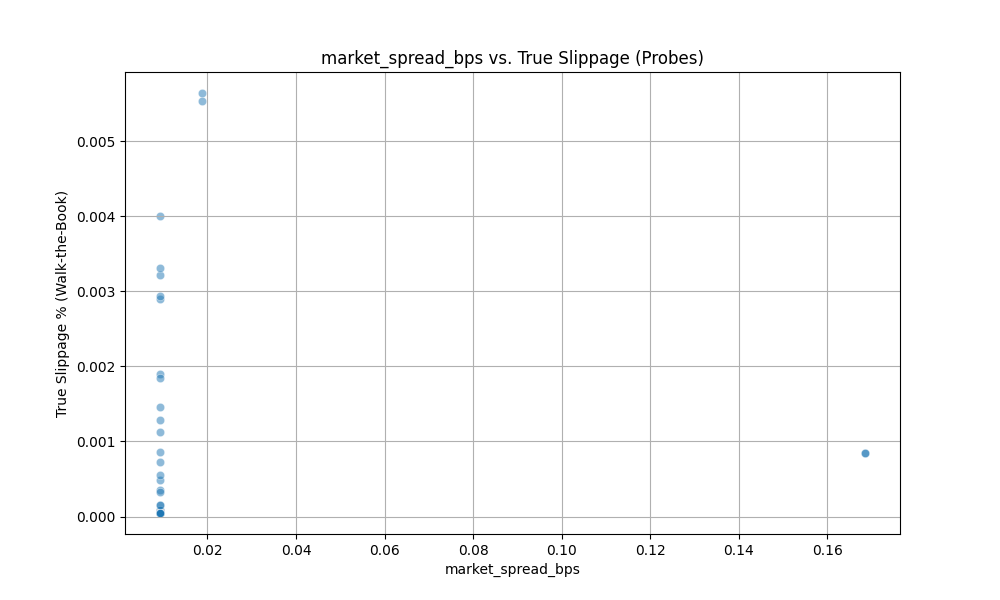
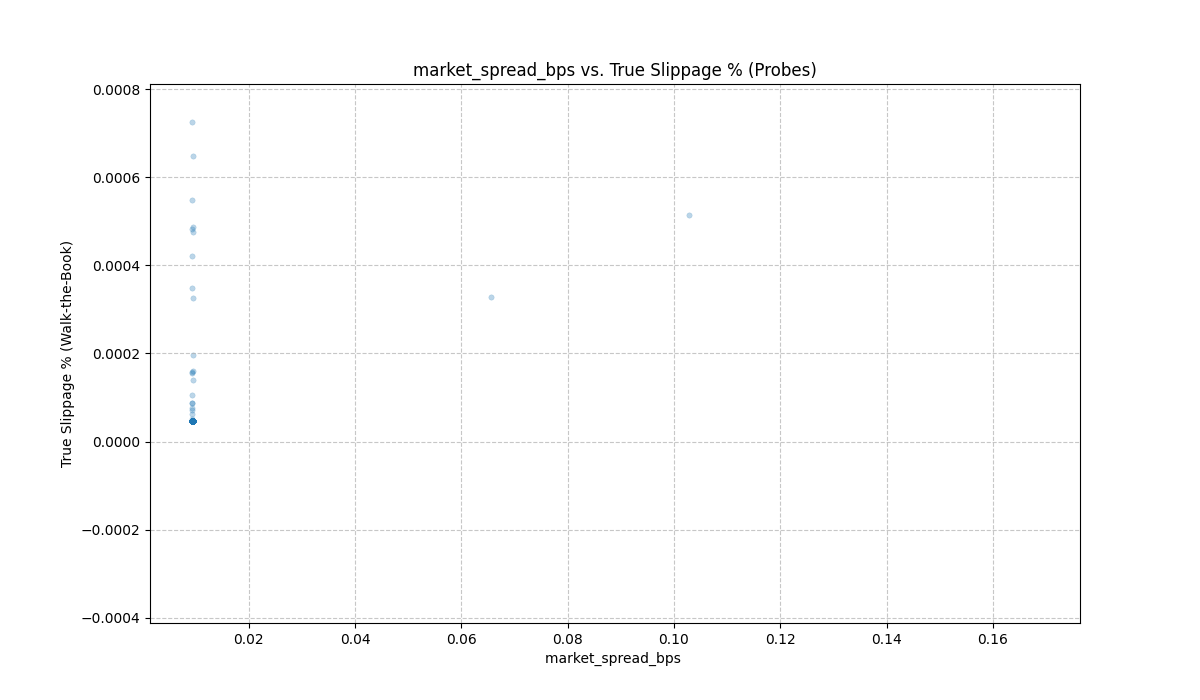
Update Stage 13: Introduced log scale in the plots, as the plots were not in the best form due to outliers and heavy concentrations at zero.

diff --git a/analyze_slippage_data.py b/analyze_slippage_data.py
@@ -2,6 +2,7 @@
 import pandas as pd
 import matplotlib.pyplot as plt
 import seaborn as sns
+import numpy as np # For log scale and handling potential inf/-inf
 import os
 
 # --- Configuration ---
@@ -14,9 +15,8 @@ if not os.path.exists(PLOT_OUTPUT_DIR):
     os.makedirs(PLOT_OUTPUT_DIR)
 
 def plot_model_performance_evolution(df_perf):
-    """Plots MSE and R2 score over training iterations."""
     if df_perf.empty or 'num_training_samples' not in df_perf.columns:
-        print("Performance log is empty or missing required columns.")
+        print("Performance log is empty or missing required columns for evolution plot.")
         return
 
     df_perf = df_perf.sort_values(by='num_training_samples').dropna(subset=['test_mse', 'test_r2_score'])
@@ -24,175 +24,240 @@ def plot_model_performance_evolution(df_perf):
         print("No valid performance data to plot after sorting/dropping NaNs.")
         return
 
-    fig, ax1 = plt.subplots(figsize=(12, 6))
+    fig, ax1 = plt.subplots(figsize=(14, 7)) # Slightly wider
 
     color = 'tab:red'
-    ax1.set_xlabel('Number of Training Samples')
-    ax1.set_ylabel('Test MSE', color=color)
-    ax1.plot(df_perf['num_training_samples'], df_perf['test_mse'], color=color, marker='o', linestyle='-')
+    ax1.set_xlabel('Number of Training Samples (Log Scale)')
+    ax1.set_ylabel('Test MSE (Log Scale)', color=color)
+    # Filter out non-positive MSE values for log scale if any, though MSE should be >= 0
+    valid_mse = df_perf[df_perf['test_mse'] > 0]
+    if not valid_mse.empty:
+        ax1.plot(valid_mse['num_training_samples'], valid_mse['test_mse'], color=color, marker='.', linestyle='-', linewidth=1, markersize=4)
     ax1.tick_params(axis='y', labelcolor=color)
-    ax1.set_yscale('log') # MSE can vary a lot, log scale might be better
+    ax1.set_xscale('log') # Log scale for training samples if it spans orders of magnitude
+    ax1.set_yscale('log') 
+    ax1.grid(True, which="both", ls="-", alpha=0.5) # Grid for log scale
 
-    ax2 = ax1.twinx()  # instantiate a second axes that shares the same x-axis
+    ax2 = ax1.twinx()  
     color = 'tab:blue'
-    ax2.set_ylabel('Test R2 Score', color=color)  # we already handled the x-label with ax1
-    ax2.plot(df_perf['num_training_samples'], df_perf['test_r2_score'], color=color, marker='x', linestyle='--')
+    ax2.set_ylabel('Test R2 Score', color=color)  
+    ax2.plot(df_perf['num_training_samples'], df_perf['test_r2_score'], color=color, marker='x', linestyle='--', linewidth=1, markersize=4)
     ax2.tick_params(axis='y', labelcolor=color)
-    ax2.set_ylim([-0.1, 1.05]) # R2 typically between 0 and 1, allow slightly outside for visibility
+    # R2 can be negative, so a fixed sensible range is good.
+    min_r2 = min(-0.2, df_perf['test_r2_score'].min() - 0.05) if not df_perf.empty else -0.2
+    max_r2 = max(1.0, df_perf['test_r2_score'].max() + 0.05) if not df_perf.empty else 1.0
+    ax2.set_ylim([min_r2, max_r2]) 
+    ax2.axhline(0, color='gray', linestyle=':', linewidth=0.8) # Line at R2=0
 
-    fig.tight_layout()  # otherwise the right y-label is slightly clipped
-    plt.title('Slippage Model Performance Evolution')
+    fig.tight_layout()  
+    plt.title('Slippage Model Performance Evolution (Test Set)')
     plt.savefig(os.path.join(PLOT_OUTPUT_DIR, "model_performance_evolution.png"))
     plt.close(fig)
     print(f"Saved model_performance_evolution.png to {PLOT_OUTPUT_DIR}")
 
 
 def plot_feature_vs_slippage(df_probes):
-    """Plots relationships between features and true slippage for probe data."""
     if df_probes.empty:
         print("Probe data is empty, cannot plot feature relationships.")
         return
 
     features_to_plot = ['probe_order_size_usd', 'market_spread_bps', 'market_depth_best_ask_usd']
     
+    # Filter out extreme true_slippage_pct for better visualization if they exist
+    # For example, if some probes exhausted the book leading to huge slippage values
+    # This depends on what reasonable slippage looks like. Let's cap at 1% for visualization.
+    df_probes_filtered = df_probes[df_probes['true_slippage_pct_walk_the_book'].abs() < 1.0].copy()
+    if len(df_probes_filtered) < 0.1 * len(df_probes): # If filtering removes too much, don't filter
+        df_probes_filtered = df_probes.copy()
+        print("Warning: Filtering for true_slippage_pct < 1% removed most data. Plotting all data.")
+    
+    print(f"Plotting feature vs slippage using {len(df_probes_filtered)} (potentially filtered) probe data points.")
+
+
     for feature in features_to_plot:
-        if feature not in df_probes.columns:
+        if feature not in df_probes_filtered.columns:
             print(f"Feature {feature} not found in probe data.")
             continue
         
-        plt.figure(figsize=(10, 6))
-        # Use a sample if data is too large to avoid overplotting
-        sample_df = df_probes.sample(n=min(5000, len(df_probes)), random_state=1) if len(df_probes) > 5000 else df_probes
+        plt.figure(figsize=(12, 7)) # Slightly larger
+        # Use a sample if data is too large to avoid overplotting and save time
+        sample_df = df_probes_filtered.sample(n=min(10000, len(df_probes_filtered)), random_state=1) if len(df_probes_filtered) > 10000 else df_probes_filtered
         
-        sns.scatterplot(data=sample_df, x=feature, y='true_slippage_pct_walk_the_book', alpha=0.5)
-        plt.title(f'{feature} vs. True Slippage (Probes)')
-        plt.xlabel(feature)
+        # Consider log scale for features if they span many orders of magnitude
+        use_log_x = False
+        if feature == 'probe_order_size_usd' or feature == 'market_depth_best_ask_usd':
+            if sample_df[feature].max() / (sample_df[feature].min() + 1e-9) > 100: # Heuristic for log scale
+                 use_log_x = True
+        
+        sns.scatterplot(data=sample_df, x=feature, y='true_slippage_pct_walk_the_book', alpha=0.3, s=15, edgecolor=None)
+        
+        if use_log_x:
+            plt.xscale('log')
+            # Filter out non-positive values for log scale if any (though order size/depth should be positive)
+            # sample_df = sample_df[sample_df[feature] > 0] 
+            # sns.scatterplot(data=sample_df, x=feature, y='true_slippage_pct_walk_the_book', alpha=0.3, s=15, edgecolor=None)
+
+
+        plt.title(f'{feature} vs. True Slippage % (Probes)')
+        plt.xlabel(f"{feature} {'(Log Scale)' if use_log_x else ''}")
         plt.ylabel('True Slippage % (Walk-the-Book)')
-        plt.grid(True)
+        
+        # Zoom y-axis if slippage is mostly small
+        median_slip = sample_df['true_slippage_pct_walk_the_book'].median()
+        std_slip = sample_df['true_slippage_pct_walk_the_book'].std()
+        if std_slip > 0 : # Avoid issues if all slippage is identical
+            lower_bound = median_slip - 3 * std_slip
+            upper_bound = median_slip + 5 * std_slip # Allow more space for positive slippage
+            # Ensure bounds are reasonable, e.g., not excessively negative for slippage %
+            lower_bound = max(lower_bound, -0.01) # Cap minimum y at -0.01% for example
+            upper_bound = min(upper_bound, 0.1) # Cap maximum y at 0.1% if data is very concentrated
+                                               # Or use a percentile approach:
+                                               # upper_bound = sample_df['true_slippage_pct_walk_the_book'].quantile(0.99)
+            if upper_bound > lower_bound + 1e-5 : # Only set ylim if range is sensible
+                 plt.ylim([lower_bound, upper_bound])
+
+
+        plt.grid(True, which="both", ls="--", alpha=0.7)
         plt.savefig(os.path.join(PLOT_OUTPUT_DIR, f"{feature}_vs_true_slippage.png"))
         plt.close()
         print(f"Saved {feature}_vs_true_slippage.png to {PLOT_OUTPUT_DIR}")
 
 def plot_slippage_distribution(df_probes):
-    """Plots the distribution of true slippage for probe data."""
     if df_probes.empty or 'true_slippage_pct_walk_the_book' not in df_probes.columns:
         print("Probe data is empty or missing slippage column, cannot plot distribution.")
         return
 
-    plt.figure(figsize=(10, 6))
-    sns.histplot(df_probes['true_slippage_pct_walk_the_book'], kde=True, bins=50)
-    plt.title('Distribution of True Slippage % (Probes)')
+    plt.figure(figsize=(12, 7))
+    
+    # Filter for visualization: remove extreme outliers if they skew the plot too much
+    # For example, consider only slippage between -1% and 1% for the main distribution plot
+    slippage_data_for_hist = df_probes['true_slippage_pct_walk_the_book']
+    q_low = slippage_data_for_hist.quantile(0.001) # Exclude extreme 0.1% tails
+    q_hi  = slippage_data_for_hist.quantile(0.999)
+    # Only apply filter if it results in a tighter, meaningful range
+    if q_hi > q_low and (q_hi - q_low) < slippage_data_for_hist.std() * 10 : # Heuristic
+        slippage_data_for_hist = slippage_data_for_hist[(slippage_data_for_hist >= q_low) & (slippage_data_for_hist <= q_hi)]
+
+    if slippage_data_for_hist.empty:
+        print("No slippage data left after filtering for histogram.")
+        return
+
+    sns.histplot(slippage_data_for_hist, kde=True, bins=100, stat="density") # Use density for KDE overlay
+    plt.title('Distribution of True Slippage % (Probes - Filtered for Visualization)')
     plt.xlabel('True Slippage % (Walk-the-Book)')
-    plt.ylabel('Frequency')
-    plt.grid(True)
-    # Zoom in if values are very concentrated around zero
-    # slippage_median = df_probes['true_slippage_pct_walk_the_book'].median()
-    # slippage_std = df_probes['true_slippage_pct_walk_the_book'].std()
-    # if slippage_std > 0:
-    #     plt.xlim([slippage_median - 5*slippage_std, slippage_median + 5*slippage_std])
+    plt.ylabel('Density')
+    plt.grid(True, which="both", ls="--", alpha=0.7)
+    
+    # Add text for mean/median if useful
+    mean_slip = slippage_data_for_hist.mean()
+    median_slip = slippage_data_for_hist.median()
+    plt.axvline(mean_slip, color='r', linestyle='--', linewidth=0.8, label=f'Mean: {mean_slip:.4f}%')
+    plt.axvline(median_slip, color='g', linestyle=':', linewidth=0.8, label=f'Median: {median_slip:.4f}%')
+    plt.legend()
+
     plt.savefig(os.path.join(PLOT_OUTPUT_DIR, "true_slippage_distribution.png"))
     plt.close()
     print(f"Saved true_slippage_distribution.png to {PLOT_OUTPUT_DIR}")
 
 
-def plot_predicted_vs_actual_for_user_orders(df_user_pred):
-    """
-    This is tricky because we don't have 'true' slippage for user orders in the same way.
-    Instead, we can plot predicted slippage vs. features for user orders.
-    """
+def plot_predicted_vs_user_order_size(df_user_pred): # Renamed for clarity
     if df_user_pred.empty:
         print("User prediction data is empty.")
         return
-
-    # Need to reconstruct features for user orders if they are not directly logged
-    # Current CSV for user predictions mainly logs the prediction itself and order size.
-    # For a more meaningful plot, we'd need the spread_bps and depth_ask_usd at the time of user prediction.
-    # This requires extending the CSV logging for user predictions.
-    # For now, let's plot Predicted Slippage vs. User Order Size.
     
     if 'user_order_size_usd' in df_user_pred.columns and 'predicted_slippage_pct_regression' in df_user_pred.columns:
-        plt.figure(figsize=(10, 6))
-        sample_df = df_user_pred.sample(n=min(5000, len(df_user_pred)), random_state=1) if len(df_user_pred) > 5000 else df_user_pred
-        sns.scatterplot(data=sample_df, x='user_order_size_usd', y='predicted_slippage_pct_regression', alpha=0.5)
-        plt.title('Predicted Slippage (Regression) vs. User Order Size')
-        plt.xlabel('User Order Size (USD)')
+        plt.figure(figsize=(12, 7))
+        # Sample if data is very large
+        sample_df = df_user_pred.sample(n=min(10000, len(df_user_pred)), random_state=1) if len(df_user_pred) > 10000 else df_user_pred
+        
+        # Filter out extreme predictions if any, for better visualization
+        # sample_df = sample_df[sample_df['predicted_slippage_pct_regression'].abs() < 1.0] # Example: cap at 1%
+
+        sns.scatterplot(data=sample_df, x='user_order_size_usd', y='predicted_slippage_pct_regression', alpha=0.3, s=15, edgecolor=None)
+        
+        # Check if x-axis (user_order_size_usd) needs log scale
+        if sample_df['user_order_size_usd'].max() / (sample_df['user_order_size_usd'].min() + 1e-9) > 100:
+            plt.xscale('log')
+            plt.xlabel('User Order Size (USD) (Log Scale)')
+        else:
+            plt.xlabel('User Order Size (USD)')
+
+        plt.title('Predicted Slippage % (Regression) vs. User Order Size')
         plt.ylabel('Predicted Slippage % (Regression)')
-        plt.grid(True)
+        plt.grid(True, which="both", ls="--", alpha=0.7)
         plt.savefig(os.path.join(PLOT_OUTPUT_DIR, "predicted_slippage_vs_user_order_size.png"))
         plt.close()
         print(f"Saved predicted_slippage_vs_user_order_size.png to {PLOT_OUTPUT_DIR}")
     else:
-        print("User prediction data missing required columns for plotting.")
+        print("User prediction data missing required columns for plotting (user_order_size_usd, predicted_slippage_pct_regression).")
 
 
 def main():
     print(f"Analyzing data from {DATA_LOG_FILE} and {PERFORMANCE_LOG_FILE}")
 
-    # --- Load Probe Data (for feature analysis and slippage distribution) ---
+    df_all = None
     try:
         df_all = pd.read_csv(DATA_LOG_FILE)
-        # Filter for rows that represent probe data (where 'probe_order_size_usd' is not NaN)
-        df_probes = df_all[df_all['probe_order_size_usd'].notna()].copy()
-        df_probes['probe_order_size_usd'] = pd.to_numeric(df_probes['probe_order_size_usd'], errors='coerce')
-        df_probes['market_spread_bps'] = pd.to_numeric(df_probes['market_spread_bps'], errors='coerce')
-        df_probes['market_depth_best_ask_usd'] = pd.to_numeric(df_probes['market_depth_best_ask_usd'], errors='coerce')
-        df_probes['true_slippage_pct_walk_the_book'] = pd.to_numeric(df_probes['true_slippage_pct_walk_the_book'], errors='coerce')
-        df_probes.dropna(subset=['probe_order_size_usd', 'market_spread_bps', 'market_depth_best_ask_usd', 'true_slippage_pct_walk_the_book'], inplace=True)
-        
-        # Filter out extreme outliers in true_slippage_pct if necessary for better visualization
-        # For example, cap at 50% or something reasonable if walk-the-book yields huge numbers
-        # df_probes = df_probes[df_probes['true_slippage_pct_walk_the_book'].abs() < 50]
-
-
-        print(f"Loaded {len(df_probes)} valid probe data points.")
     except FileNotFoundError:
         print(f"Error: {DATA_LOG_FILE} not found.")
-        df_probes = pd.DataFrame()
+        # Exit if main data file not found
+        return 
     except Exception as e:
-        print(f"Error loading or processing {DATA_LOG_FILE}: {e}")
-        df_probes = pd.DataFrame()
+        print(f"Error loading {DATA_LOG_FILE}: {e}")
+        return
 
-    # --- Load User Prediction Data ---
-    try:
-        # Filter for rows that represent user predictions
-        df_user_pred = df_all[df_all['user_order_size_usd'].notna()].copy()
-        df_user_pred['user_order_size_usd'] = pd.to_numeric(df_user_pred['user_order_size_usd'], errors='coerce')
-        df_user_pred['predicted_slippage_pct_regression'] = pd.to_numeric(df_user_pred['predicted_slippage_pct_regression'], errors='coerce')
+    # --- Process Probe Data ---
+    df_probes = df_all[df_all['probe_order_size_usd'].notna()].copy()
+    if not df_probes.empty:
+        for col in ['probe_order_size_usd', 'market_spread_bps', 'market_depth_best_ask_usd', 'true_slippage_pct_walk_the_book']:
+            df_probes[col] = pd.to_numeric(df_probes[col], errors='coerce')
+        df_probes.dropna(subset=['probe_order_size_usd', 'market_spread_bps', 'market_depth_best_ask_usd', 'true_slippage_pct_walk_the_book'], inplace=True)
+        
+        # Filter out rows where market_spread_bps is negative (crossed book artifacts)
+        # This should already be handled by the data generation filter, but as a safeguard for analysis:
+        initial_probe_count = len(df_probes)
+        df_probes = df_probes[df_probes['market_spread_bps'] >= 0].copy()
+        if len(df_probes) < initial_probe_count:
+            print(f"Filtered out {initial_probe_count - len(df_probes)} probe data points with negative spread_bps.")
+        
+        print(f"Loaded {len(df_probes)} valid probe data points for analysis.")
+    else:
+        print("No probe data found in log file.")
+
+    # --- Process User Prediction Data ---
+    df_user_pred = df_all[df_all['user_order_size_usd'].notna()].copy()
+    if not df_user_pred.empty:
+        for col in ['user_order_size_usd', 'predicted_slippage_pct_regression']:
+            df_user_pred[col] = pd.to_numeric(df_user_pred[col], errors='coerce')
         df_user_pred.dropna(subset=['user_order_size_usd', 'predicted_slippage_pct_regression'], inplace=True)
         print(f"Loaded {len(df_user_pred)} valid user prediction data points.")
-    except FileNotFoundError: # Already handled above, but keep for structure
-        df_user_pred = pd.DataFrame()
-    except Exception as e: # If df_all failed to load
-        print(f"Error accessing data for user predictions (likely from initial load fail): {e}")
-        df_user_pred = pd.DataFrame()
+    else:
+        print("No user prediction data found in log file.")
 
-
-    # --- Load Model Performance Data ---
+    # --- Process Model Performance Data ---
+    df_perf = pd.DataFrame() # Initialize as empty
     try:
         df_perf = pd.read_csv(PERFORMANCE_LOG_FILE)
-        df_perf['num_training_samples'] = pd.to_numeric(df_perf['num_training_samples'], errors='coerce')
-        df_perf['test_mse'] = pd.to_numeric(df_perf['test_mse'], errors='coerce')
-        df_perf['test_r2_score'] = pd.to_numeric(df_perf['test_r2_score'], errors='coerce')
-        print(f"Loaded {len(df_perf)} model performance records.")
+        if not df_perf.empty:
+            for col in ['num_training_samples', 'test_mse', 'test_r2_score']:
+                 df_perf[col] = pd.to_numeric(df_perf[col], errors='coerce')
+            # df_perf.dropna(subset=['num_training_samples', 'test_mse', 'test_r2_score'], inplace=True) # Keep NaNs for now, plot func handles
+            print(f"Loaded {len(df_perf)} model performance records.")
+        else:
+            print(f"{PERFORMANCE_LOG_FILE} is empty.")
     except FileNotFoundError:
-        print(f"Error: {PERFORMANCE_LOG_FILE} not found.")
-        df_perf = pd.DataFrame()
+        print(f"Warning: {PERFORMANCE_LOG_FILE} not found. Skipping performance evolution plot.")
     except Exception as e:
         print(f"Error loading or processing {PERFORMANCE_LOG_FILE}: {e}")
-        df_perf = pd.DataFrame()
 
     # --- Generate Plots ---
-    if not df_perf.empty:
-        plot_model_performance_evolution(df_perf)
-    
+    if not df_perf.empty: plot_model_performance_evolution(df_perf)
     if not df_probes.empty:
         plot_feature_vs_slippage(df_probes)
         plot_slippage_distribution(df_probes)
-    
-    if not df_user_pred.empty:
-        plot_predicted_vs_actual_for_user_orders(df_user_pred) # Name is a bit misleading now
+    if not df_user_pred.empty: plot_predicted_vs_user_order_size(df_user_pred)
 
-    print(f"\nAnalysis complete. Plots saved to '{PLOT_OUTPUT_DIR}' directory.")
+    print(f"\nAnalysis complete. Plots saved to '{PLOT_OUTPUT_DIR}' directory if data was available.")
 
 if __name__ == "__main__":
     main()
